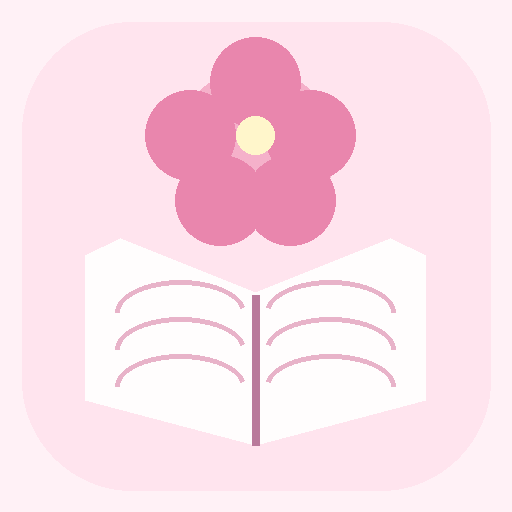
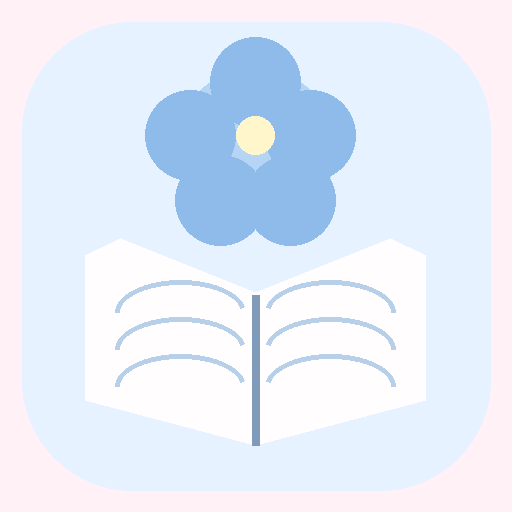
Fix manabibiyori v1.2 navigation and dashboard
PCサイドメニューとホーム画面の表示不具合を修正。
JavaScript初期化処理とPWAキャッシュを改善。
既存機能・デザイン・青色アイコンを維持。

diff --git a/script.js b/script.js
@@ -42,5 +42,5 @@ function tickTimer(){let t=data.timer;if(!t)return;let rem=remaining();if(t.runn
 function tutorial(){alert('🌸 まなび日和へようこそ！\n① 科目を登録します\n② 集中タイマーや手動入力で学習を記録\n③ 予定・ToDoと目標を設定\n④ 分析とバッジで振り返り\n⑤ 設定からJSONバックアップを保存しましょう。')}
 document.addEventListener('click',e=>{let b=e.target.closest('button');if(!b)return;if(b.dataset.go){go(b.dataset.go);return}if(b.dataset.mode){timerMode=b.dataset.mode;render();return}if(b.dataset.bg){data.settings.bg=b.dataset.bg;save();render();return}if(b.dataset.calview){calView=b.dataset.calview;render();return}if(b.dataset.day){selected=b.dataset.day;calDate=dateOf(selected);render();return}if(b.dataset.edit){let [type,id]=b.dataset.edit.split(':');modal(type,id);return}if(b.dataset.delete){let [type,id]=b.dataset.delete.split(':'),entity={record:'records',task:'tasks',event:'events',goal:'goals',subject:'subjects'}[type];if(confirm('本当に削除しますか？')){data[entity]=data[entity].filter(x=>x.id!==id);save();render()}return}switch(b.dataset.action){case 'addRecord':modal('record');break;case 'addTask':modal('task');break;case 'addEvent':modal('event');break;case 'addGoal':modal('goal');break;case 'addSubject':modal('subject');break;case 'startTimer':startTimer();break;case 'finishTimer':finishTimer();break;case 'resetTimer':if(confirm('タイマーをリセットしますか？')){data.timer=null;save();render()}break;case 'prevCal':case 'nextCal':{let v=b.dataset.action==='prevCal'?-1:1;if(calView==='month')calDate=new Date(calDate.getFullYear(),calDate.getMonth()+v,1);else{calDate.setDate(calDate.getDate()+v*(calView==='week'?7:1));selected=localDate(calDate)}render();break}case 'todayCal':calDate=new Date();selected=today();render();break;case 'exportJSON':download(`まなび日和-backup-${today()}.json`,JSON.stringify(data,null,2),'application/json');break;case 'importJSON':$('#importFile').click();break;case 'exportCSV':{let cols=['date','subject','minutes','content','memo','mood'];let csv=[['日付','科目','学習時間（分）','内容','メモ','集中度'],...data.records.map(r=>[r.date,subjectName(r.subject),r.minutes,r.content,r.memo,r.mood])].map(row=>row.map(v=>'"'+String(v??'').replace(/"/g,'""')+'"').join(',')).join('\r\n');download(`まなび日和-学習記録-${today()}.csv`,'\ufeff'+csv,'text/csv;charset=utf-8');break}case 'tutorial':tutorial();break;}});
 document.addEventListener('change',e=>{let el=e.target;if(el.dataset.check){let t=data.tasks.find(x=>x.id===el.dataset.check);if(t){t.done=el.checked;save();render()}return}if(el.id==='theme'){data.settings.theme=el.value}else if(el.id==='dark'){data.settings.dark=el.checked}else if(el.id==='sound'){data.settings.sound=el.checked}else if(el.dataset.setting){data.settings[el.dataset.setting]=Math.max(1,Number(el.value)||1)}else return;save();render()});
-$('#importFile').addEventListener('change',async e=>{let f=e.target.files[0];if(!f)return;try{let obj=JSON.parse(await f.text());if(!obj||!Array.isArray(obj.records)||!Array.isArray(obj.subjects)||!Array.isArray(obj.tasks)||!Array.isArray(obj.events)||!Array.isArray(obj.goals))throw Error('形式が違います');if(confirm('現在のデータを上書きして復元します。よろしいですか？')){data={...defaults(),...obj,settings:{...defaults().settings,...obj.settings}};save();render();toast('復元しました')}}catch{alert('正しいバックアップファイルではありません')}e.target.value=''});
+document.addEventListener('change',async e=>{if(e.target.id!=='importFile')return;let f=e.target.files[0];if(!f)return;try{let obj=JSON.parse(await f.text());if(!obj||!Array.isArray(obj.records)||!Array.isArray(obj.subjects)||!Array.isArray(obj.tasks)||!Array.isArray(obj.events)||!Array.isArray(obj.goals))throw Error('形式が違います');if(confirm('現在のデータを上書きして復元します。よろしいですか？')){data={...defaults(),...obj,settings:{...defaults().settings,...obj.settings}};save();render();toast('復元しました')}}catch{alert('正しいバックアップファイルではありません')}e.target.value=''});
 $('#cancelModal').onclick=()=>$('#modal').close();$('#quickSettings').onclick=()=>go('settings');render();setInterval(tickTimer,1000);if(!data.tutorial){data.tutorial=true;save();setTimeout(tutorial,400)}if('serviceWorker'in navigator)navigator.serviceWorker.register('./service-worker.js').catch(()=>{});

diff --git a/index.html b/index.html
@@ -1,1 +1,1 @@
-<!doctype html><html lang="ja"><head><meta charset="utf-8"><meta name="viewport" content="width=device-width,initial-scale=1,viewport-fit=cover"><meta name="theme-color" content="#f6b7cc"><meta name="apple-mobile-web-app-capable" content="yes"><title>まなび日和</title><link rel="manifest" href="manifest.webmanifest"><link rel="icon" href="icon-192.png"><link rel="apple-touch-icon" href="icon-192.png"><link rel="stylesheet" href="style.css"></head><body><div class="shell"><aside class="sidebar"><h1>🌸 まなび日和</h1><p>毎日の学びを、もっと楽しく。</p><nav id="sideNav"></nav></aside><main><header><div><h1 id="pageTitle">ホーム</h1><small id="todayLabel"></small></div><button id="quickSettings" class="subtle">⚙ 設定</button></header><div id="content"></div></main><nav class="bottom" id="bottomNav"></nav></div><dialog id="modal"><form method="dialog" id="modalForm"><h2 id="modalTitle"></h2><div id="modalBody"></div><footer><button type="button" class="subtle" id="cancelModal">キャンセル</button><button id="saveModal" value="save">保存する</button></footer></form></dialog><div id="toast" role="status"></div><script src="script.js"></script></body></html>
+<!doctype html><html lang="ja"><head><meta charset="utf-8"><meta name="viewport" content="width=device-width,initial-scale=1,viewport-fit=cover"><meta name="theme-color" content="#80b7f4"><meta name="apple-mobile-web-app-capable" content="yes"><title>まなび日和</title><link rel="manifest" href="manifest.webmanifest"><link rel="icon" href="icon-192.png?v=1.2"><link rel="apple-touch-icon" href="icon-192.png?v=1.2"><link rel="stylesheet" href="style.css?v=1.2"></head><body><div class="shell"><aside class="sidebar"><h1>🌸 まなび日和</h1><p>毎日の学びを、もっと楽しく。</p><nav id="sideNav"></nav></aside><main><header><div><h1 id="pageTitle">ホーム</h1><small id="todayLabel"></small></div><button id="quickSettings" class="subtle">⚙ 設定</button></header><div id="content"></div></main><nav class="bottom" id="bottomNav"></nav></div><dialog id="modal"><form method="dialog" id="modalForm"><h2 id="modalTitle"></h2><div id="modalBody"></div><footer><button type="button" class="subtle" id="cancelModal">キャンセル</button><button id="saveModal" value="save">保存する</button></footer></form></dialog><div id="toast" role="status"></div><script src="script.js?v=1.2"></script></body></html>

diff --git a/service-worker.js b/service-worker.js
@@ -1,1 +1,1 @@
-const CACHE='manabi-biyori-v1-20261009';const ASSETS=['./','./index.html','./style.css','./script.js','./manifest.webmanifest','./icon-192.png','./icon-512.png'];self.addEventListener('install',e=>{e.waitUntil(caches.open(CACHE).then(c=>c.addAll(ASSETS)));self.skipWaiting()});self.addEventListener('activate',e=>{e.waitUntil(caches.keys().then(keys=>Promise.all(keys.filter(k=>k!==CACHE).map(k=>caches.delete(k)))));self.clients.claim()});self.addEventListener('fetch',e=>{if(e.request.method!=='GET'||new URL(e.request.url).origin!==location.origin)return;e.respondWith(caches.match(e.request).then(c=>c||fetch(e.request)))})
+const CACHE='manabi-biyori-v1.2-20261009';const ASSETS=['./','./index.html','./style.css','./script.js','./manifest.webmanifest','./icon-192.png','./icon-512.png'];self.addEventListener('install',e=>{e.waitUntil(caches.open(CACHE).then(c=>c.addAll(ASSETS)));self.skipWaiting()});self.addEventListener('activate',e=>{e.waitUntil(caches.keys().then(keys=>Promise.all(keys.filter(k=>k!==CACHE).map(k=>caches.delete(k)))));self.clients.claim()});self.addEventListener('fetch',e=>{if(e.request.method!=='GET'||new URL(e.request.url).origin!==location.origin)return;e.respondWith(fetch(e.request).then(r=>{if(r.ok){const copy=r.clone();caches.open(CACHE).then(c=>c.put(e.request,copy))}return r}).catch(()=>caches.match(e.request)))})

diff --git a/README.md b/README.md
@@ -1,22 +1,15 @@
-# まなび日和 v1.0
+# まなび日和 v1.2
 
-学習・集中管理用のPWAです。HTML/CSS/JavaScriptだけで動作し、データは各端末のブラウザのlocalStorageに保存されます。
+PCサイドメニュー・ホーム画面・スマホ下部タブが表示されない問題を修正しました。
 
-## GitHub Pagesで公開
-1. GitHubで `manabi-biyori` というPublicリポジトリを作成。
-2. このフォルダの**中身**（index.html、script.js、style.css、manifest.webmanifest、service-worker.js、icon-192.png、icon-512.png、README.md）をリポジトリ直下へアップロード。
-3. Commit changes欄に `Launch まなび日和 v1.0` と入力し、**Commit directly to the main branch** を選択して **Commit changes** をクリック。
-4. Settings → Pages → Build and deployment → Deploy from a branch → `main` / `/(root)` → Save。
-5. 公開後のURLは `https://ユーザー名.github.io/manabi-biyori/` です。数分後に開いてください。
-6. スマホで公開URLを開き、iPhoneはSafariの共有→ホーム画面に追加、AndroidはChromeのメニュー→アプリをインストール／ホーム画面に追加。
+原因：設定画面でのみ存在するファイル入力欄へ起動時にイベント登録しようとしてJavaScriptが停止していました。イベント委譲に変更し、初期描画を妨げないようにしました。
 
-## 更新時のコミット
-- Commit message: `Update まなび日和 v1.0`
-- Extended description: `Improve study tracking, focus timer, calendar, goals, analytics, and PWA assets.`
-- Branch: `main` を選び、**Commit changes** をクリック。
+青色アイコン・既存デザイン・学習データ保存キーは維持。HTML、manifest、Service Workerのバージョンを更新しました。
 
-## 注意
-- ブラウザのデータ消去や端末変更で記録は消えます。設定からJSONバックアップを定期的に保存してください。
-- スマホとPCは自動同期しません。JSONで手動移行できます。
-- 終了音はブラウザの制限により、アプリを閉じている間には鳴らない場合があります。
-- GitHub PagesはHTTPSのためPWAが利用できます。ファイルを直接開く場合はPWAは有効になりません。
+## GitHub Pages更新
+
+解凍後のファイル一式をリポジトリのルートへアップロードし、mainにコミットします。
+
+Commit message: `Fix Manabi Biyori v1.2 navigation and dashboard`
+
+反映後にCtrl+Shift+Rで強制再読み込みしてください。
